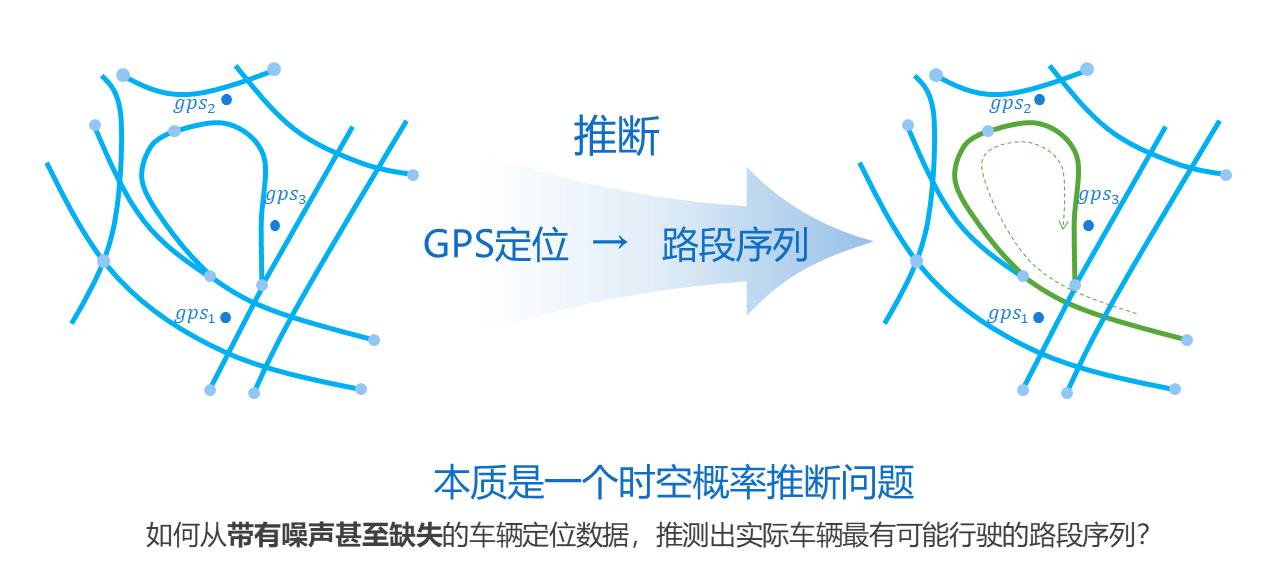
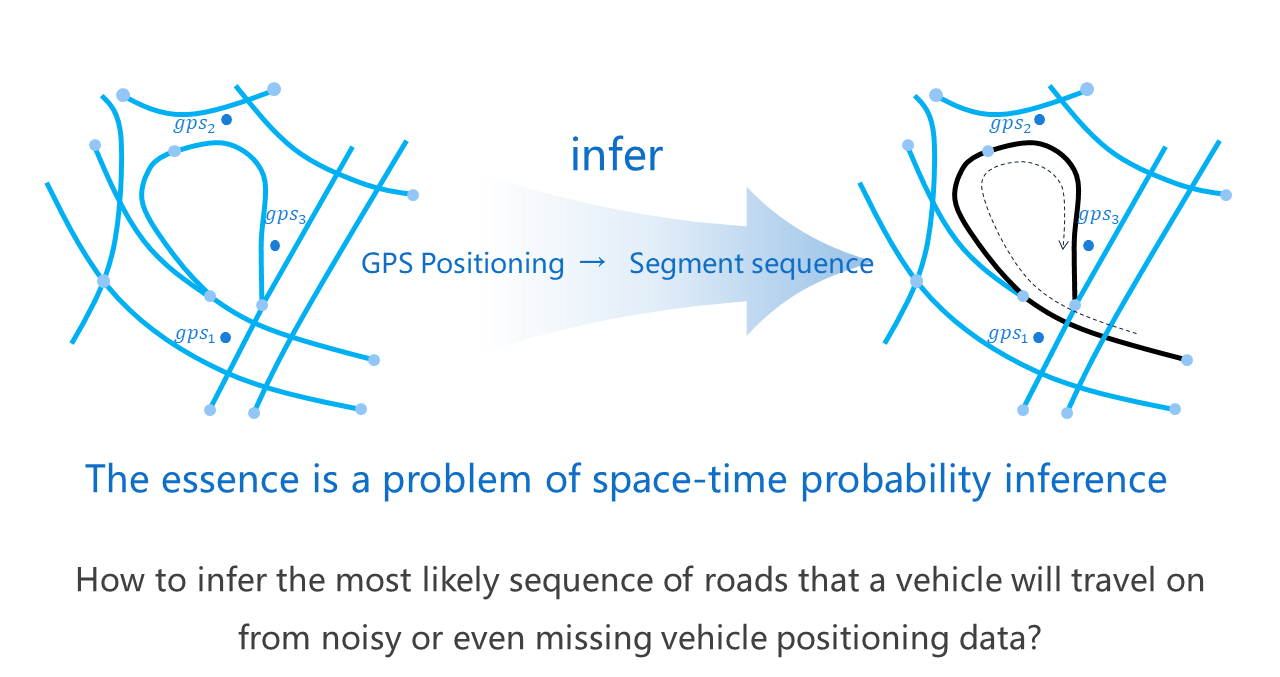
modify docs

diff --git a/docs/index.rst b/docs/index.rst
@@ -27,16 +27,22 @@ It matches the vehicle's GPS trajectory data to the road network through probabi
 -----------------------------------------------------
 
 
-* Application of MapMatch
-    travel navigation: General Navigation、Lane Level Navigation、Traffic behavior warning
+The application areas of Map-Matching are as follows：
 
-    traffic monitoring: Real-time traffic calculation、Intersection delay calculation、Real-time public transportation、Traffic monitoring
+* Travel navigation
+    General Navigation、Lane Level Navigation、Traffic behavior warning
 
-    traffic management: Traffic tracing analysis、Travel behavior analysis、Traffic congestion analysis
+* Traffic monitoring
+    Real-time traffic calculation、Intersection delay calculation、Real-time public transportation、Traffic monitoring
 
-    carbon emission accounting: Emissions accounting、Road network emission characteristics
+* Traffic management
+    Traffic tracing analysis、Travel behavior analysis、Traffic congestion analysis
 
-    traffic modeling and other directions: Road network integration、Bus/road network matching
+* Carbon emission accounting
+    Emissions accounting、Road network emission characteristics
+
+* Traffic modeling and other directions
+    Road network integration、Bus/road network matching
 
 
 .. note::
